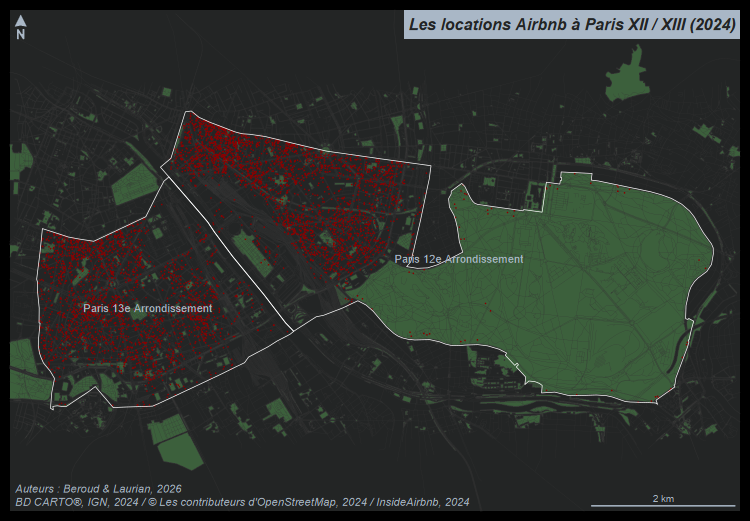
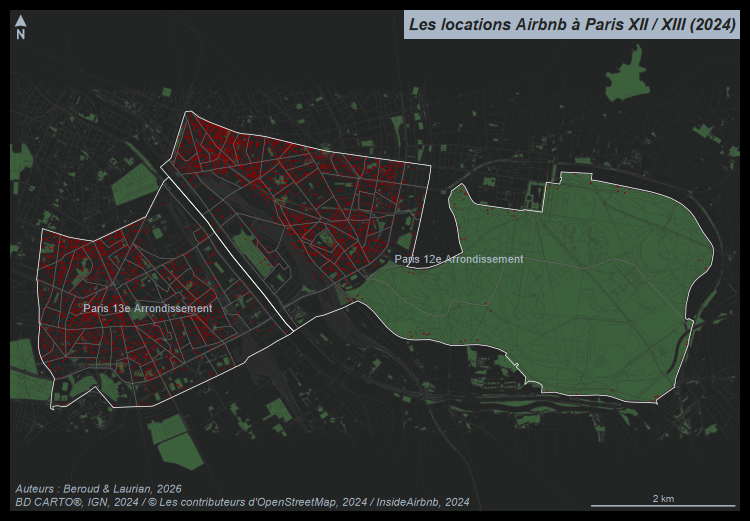
edit

diff --git a/README.md b/README.md
@@ -33,6 +33,8 @@ Ce fichier geopackage contient 5 couches d’information :
 
 -   **arrdts**, les limites communales des 12e et 13e 
     arrondissements parisiens (BD CARTO®, IGN, 2021),
+-   **arrdts**, les limites des IRIS des des 12e et 13e 
+    arrondissements parisiens (BD CARTO®, IGN, 2021),
 -   **parc**, les espaces verts de la région étudiée (© les
     contributeurs d’OpenStreetMap, 2021),
 -   **route**, le réseau viaire de la région étudiée (© les
@@ -60,14 +62,13 @@ d’orientation, échelle, titre, sources…).
 
 ![Exemple de carte présentant l'ensemble des couches](figs/fig1.png)
 
-### Carte des prix des locations (4 points)
+### Carte des locations par IRIS (4 points)
 
-Créez une carte ou chaque location apparait sous la forme d’un point
-coloré en fonction de son prix.  
+Créez une carte ou le nombre de locations Airbnb par IRIS est indiqué par des
+cercles proportionnels.
 Exportez cette carte en PNG avec une largeur de 750 pixels.   
 Attention nous ne demandons pas la carte elle-même, uniquement
 le code qui a servi à la produire.</u>  
-Vous devrez justifier la méthode de discrétisation que vous utilisez.
 
 ![Exemple de brouillon de carte des prix](figs/fig2.png)
 

diff --git a/Preparation_des_donnees.md b/Preparation_des_donnees.md
@@ -40,8 +40,7 @@ tab_1312 <- tab_1312[tab_1312$price < 1000 ,]
 tab_1312 <- tab_1312[!is.na(tab_1312$price) ,]
 
 tab_1312 <- st_as_sf(tab_1312, coords = c("longitude", "latitude"),
-                     crs = 4326) |>
-  st_transform(crs = 2154)
+                     crs = 4326)
 
 # export
 st_write(obj = tab_1312, dsn = paste0("data/bnb.gpkg"), layer = "airbnb",
